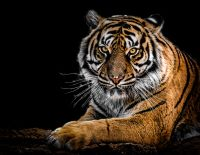
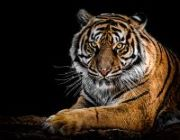
gallery photo edited and header edited

diff --git a/my_work.html b/my_work.html
@@ -23,9 +23,9 @@
         </header>
         <div class="questions">
             <ul>
-                <li><a href="">question_1</a></li>
-                <li><a href="./question_2.html">question_2</a></li>
-                <li><a href="./question_3.html">question_3</a></li>
+                <li><a href="question_1.html"> <p>question_1</p> </a></li>
+                <li><a href="./question_2.html"><p>question_2</p></a></li>
+                <li><a href="./question_3.html"><p>question_2</p></a></li>
                 
             </div>
     

diff --git a/question_3.html b/question_3.html
@@ -14,7 +14,7 @@
             <ul>
                 
                 <li><a href="./my_work.html">My work</a></li>
-                <li><a href="">question_1</a></li>
+                <li><a href="question_1.html">question_1</a></li>
                 <li><a href="question_2.html">question_2</a></li>
                 <li><a href="question_3.html">question_3</a></li>
             </ul>

diff --git a/question_2.html b/question_2.html
@@ -14,7 +14,7 @@
             <ul>
                 
                 <li><a href="my_work.html">My work</a></li>
-                <li><a href="">question_1</a></li>
+                <li><a href="question_1.html">question_1</a></li>
                 <li><a href="question_2.html">question_2</a></li>
                 <li><a href="question_3.html">question_3</a></li>
             </ul>

diff --git a/asset/css/my_work.css b/asset/css/my_work.css
@@ -34,7 +34,9 @@ nav > ul > li > a{
     color: ivory;
 }
 .questions{
-    margin-top: 100px;
+    margin-top: 200px;
+    margin-left: 250px;
+    padding: 10px;
 }
  li{
     display: inline-block;
@@ -46,3 +48,6 @@ nav > ul > li > a{
     text-decoration: none;
     color: ivory;
 }    
+p{
+    font-size: 50px;
+}

diff --git a/asset/css/selected_exe.css b/asset/css/selected_exe.css
@@ -40,3 +40,10 @@ nav > ul > li > a{
     color: ivory;
     
 }
+header{
+    background-color: rgba(12,23,11,0.3);
+    position: fixed;
+    width: 100%;
+    top: 0;
+    right: 0;
+}      

diff --git a/asset/css/index.css b/asset/css/index.css
@@ -86,7 +86,9 @@ nav > ul > li > a{
 .dicription>p{
     font-size: 20px;
 }
-
+ul{
+    list-style-image: url(../image/right_logo.png);
+}
     
 
 

diff --git a/asset/css/style.css b/asset/css/style.css
@@ -64,6 +64,7 @@ img{
     width: 30%;
     height: 50%;
     margin: 50px 21px;
+    border-radius: 25px;
     
 }
 
